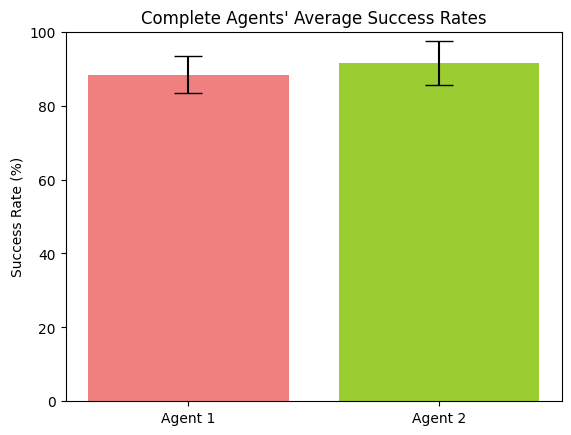
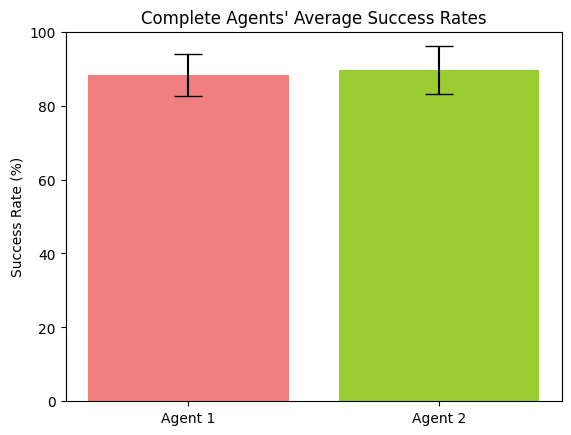
everything works

Changed region(s): [[0.5954, 0.0897, 0.9527, 0.2391], [0.2977, 0.2092, 0.3573, 0.2391], [0.2977, 0.1195, 0.3573, 0.1494]]

diff --git a/main.py b/main.py
@@ -153,10 +153,10 @@ def labreport_simulation_statistics_agent4():
 
 
 if __name__ == "__main__":
-    #labreport_simulation_statistics_agent1()
-    #labreport_simulation_statistics_agent2()
-    #simulation_statistics.visualize("data/", "simulation_statistics_complete.json")
+    labreport_simulation_statistics_agent1()
+    labreport_simulation_statistics_agent2()
+    simulation_statistics.visualize("data/", "simulation_statistics_complete.json")
 
     labreport_simulation_statistics_agent3()
-    # labreport_simulation_statistics_agent4()
-    #simulation_statistics.visualize("data/", "simulation_statistics_partial-prey.json")
+    labreport_simulation_statistics_agent4()
+    simulation_statistics.visualize("data/", "simulation_statistics_partial-prey.json")

diff --git a/game/game.py b/game/game.py
@@ -185,14 +185,10 @@ class Game:
         if status == 0:
             status = -2
 
-        return status if status != 0 else -2
+        return status, found_prey
 
     def run_agent_3_debug(self):
         self.agent = Agent3(self.agent_starting_location, self.graph)
-<<<<<<< HEAD
-=======
-
->>>>>>> c32c80e6400808619d951bf7417495242721ac7e
         status = 0
         step_count = 0
         found_prey = 0
